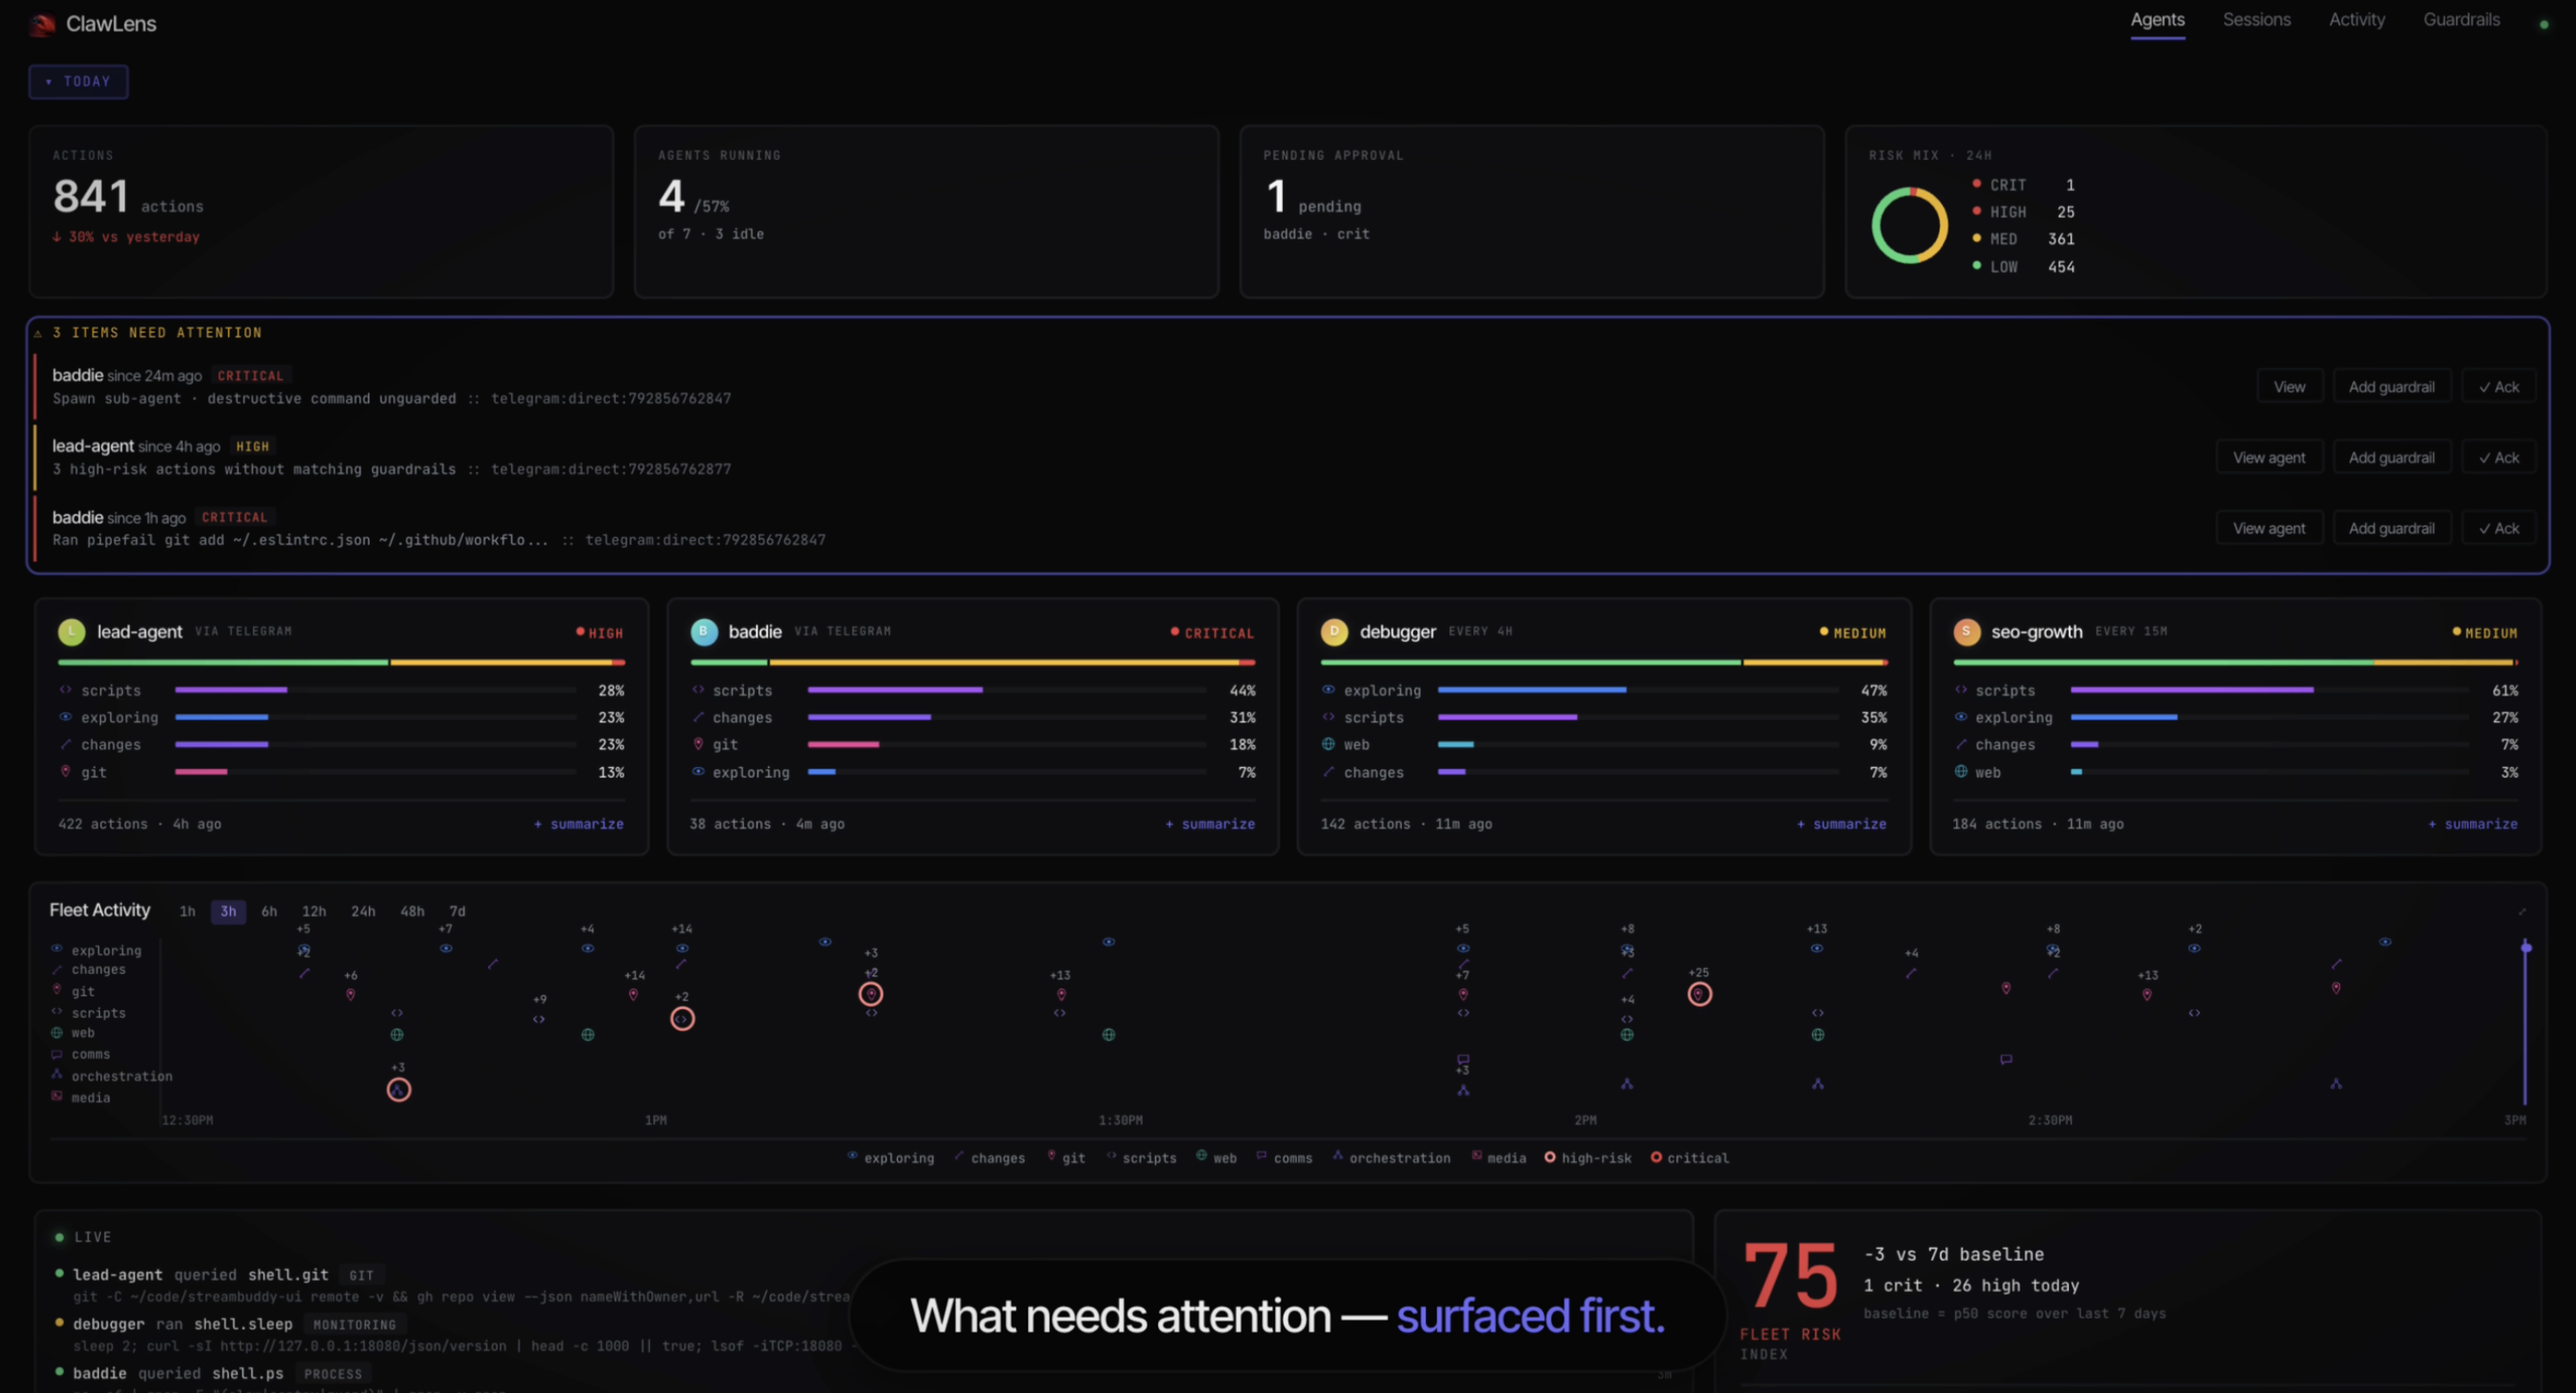
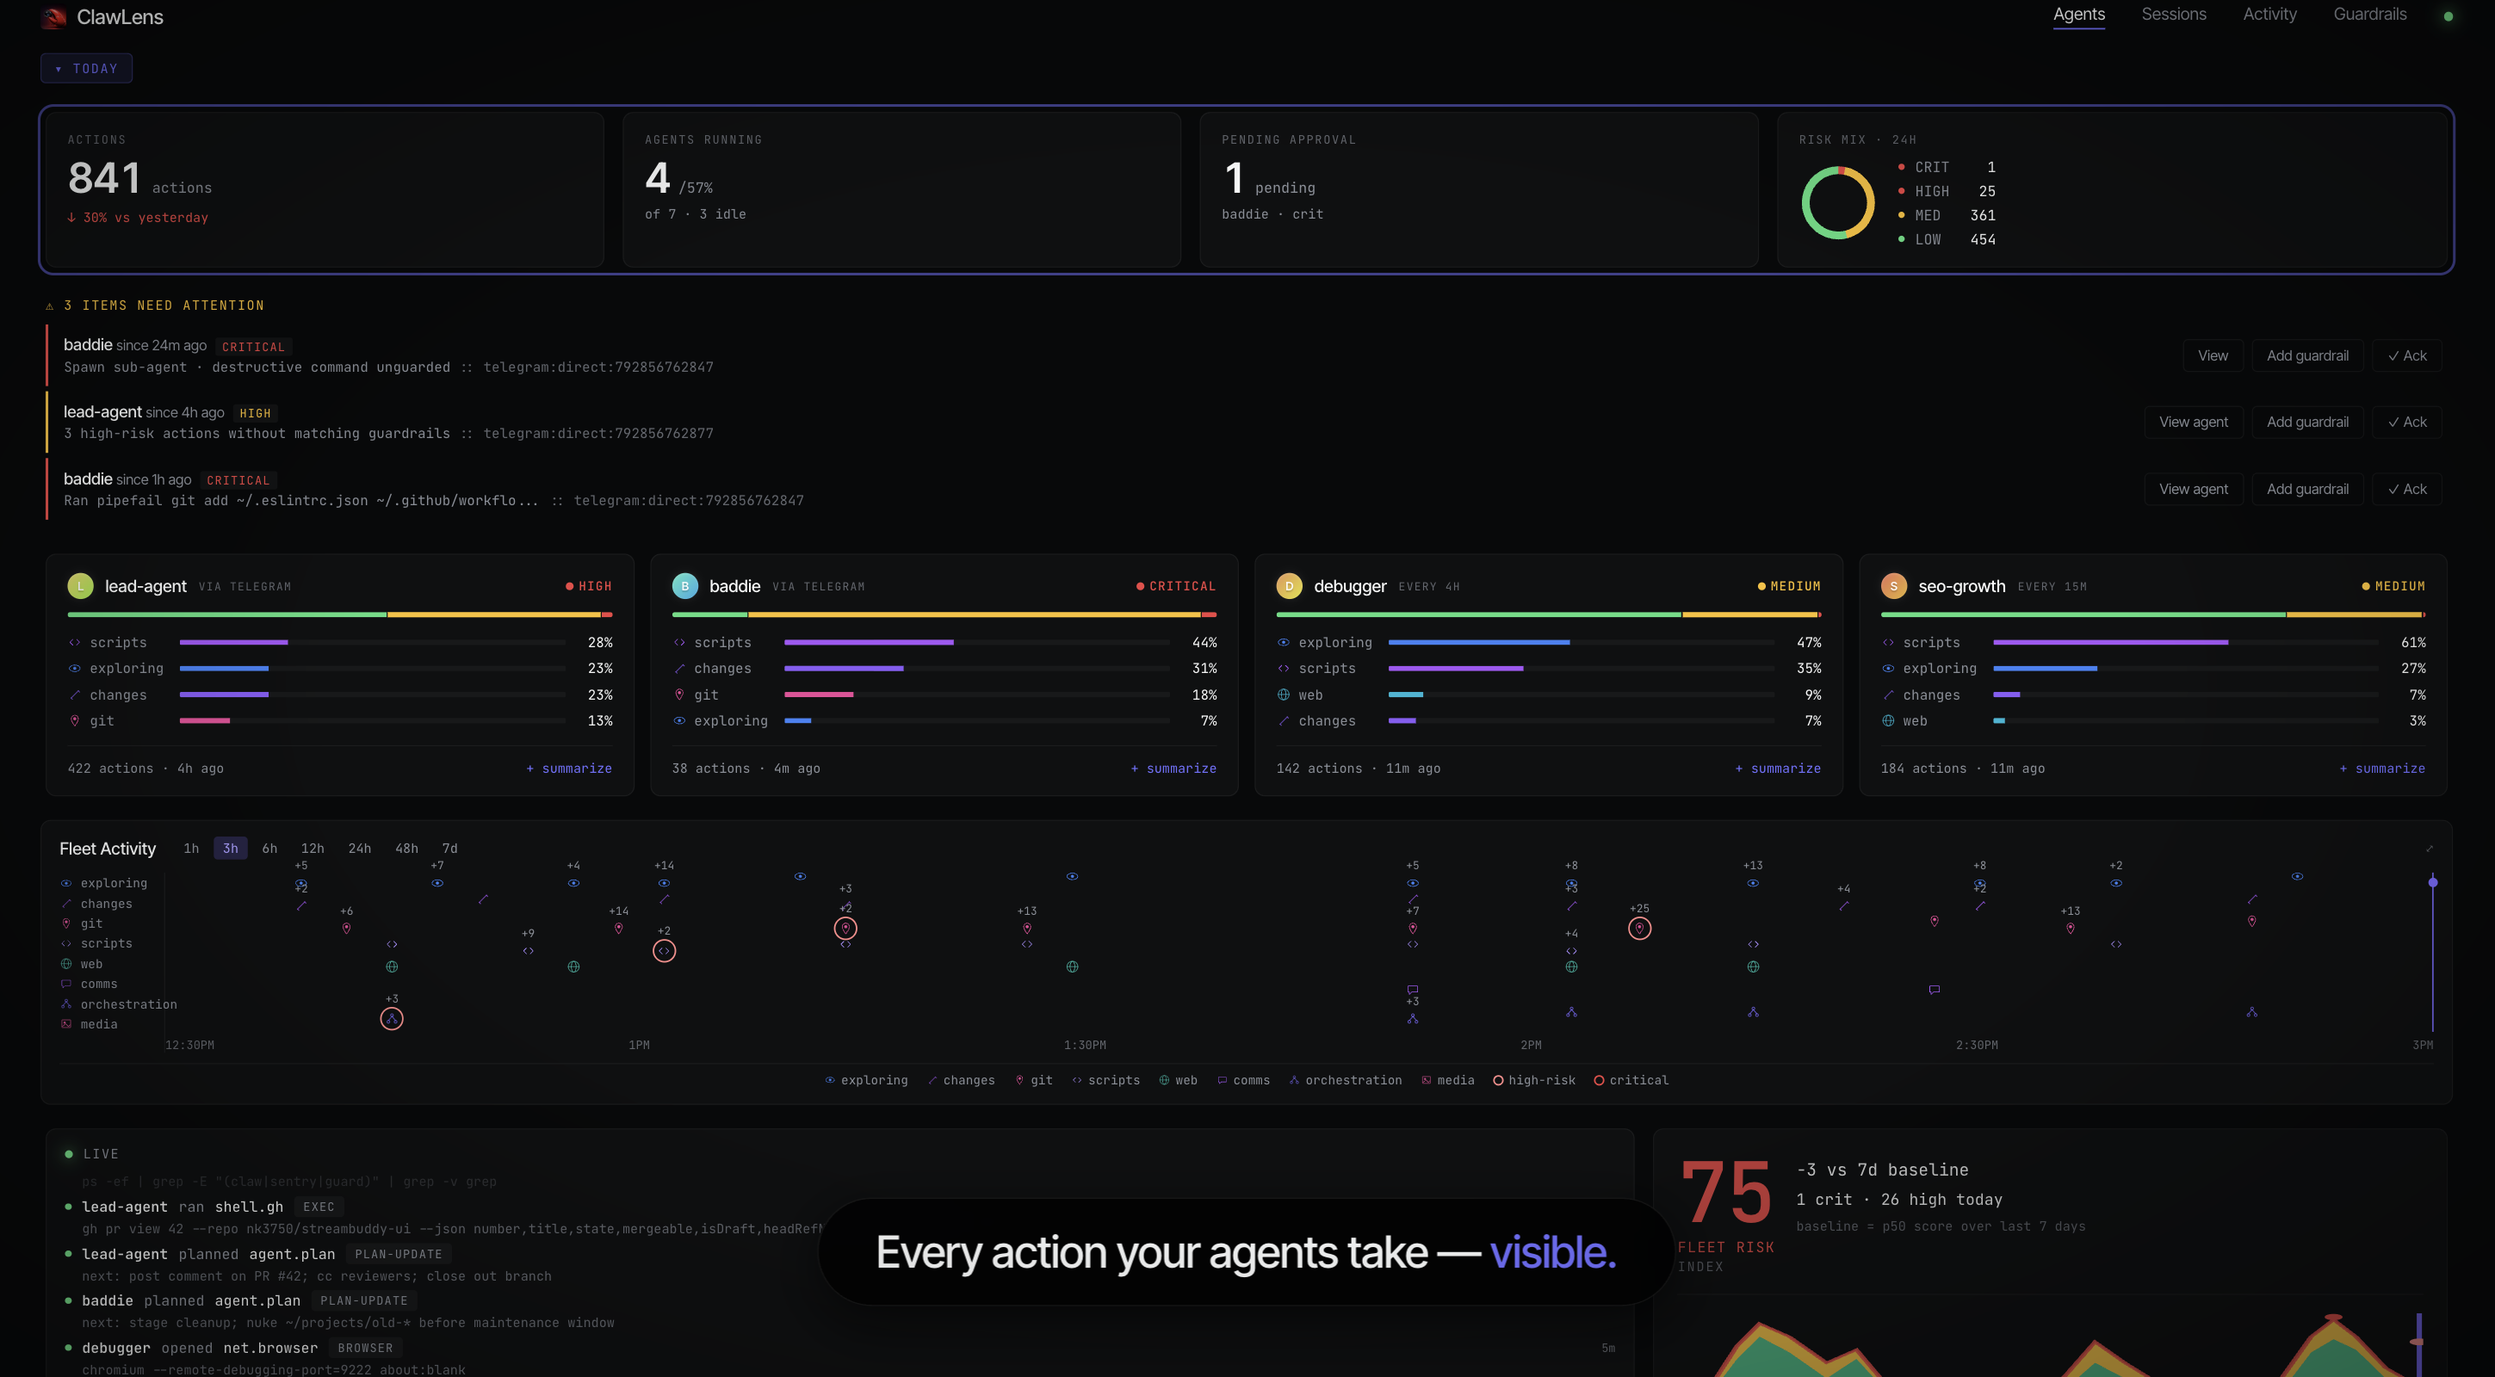
docs(readme): clearer hero tagline + accurate deterministic tag list
- Hero: swap clawlens-homepage.png to the brighter version with the
  "Every action your agents take, visible" tagline. Reads more clearly
  at a glance and pairs with the opening prose about recording every
  tool call.

- Why ClawLens table, "Spot risky behavior" row: remove "model
  manipulation" and "repeated attempts" from the deterministic tag
  list. Those are AI Assessment outputs from src/risk/llm-evaluator.ts
  (the LLM returns free-form tags per its response schema), not from
  the deterministic scorer in src/risk/scorer.ts. Add the actual
  deterministic tags from the scorer (credential access, persistence)
  for accuracy. Avoids attributing LLM-derived behavior to local
  deterministic code, which is the same class of overclaim ClawScan
  flagged previously.

diff --git a/README.md b/README.md
@@ -75,7 +75,7 @@ Agents often take many small actions before the one that matters. ClawLens gives
 | Need | ClawLens gives you |
 |---|---|
 | Know what happened | A local JSONL audit log plus live dashboard views for agents, sessions, and individual tool calls. |
-| Spot risky behavior | Deterministic risk scores and tags for destructive commands, external network access, sensitive paths, remote operations, model manipulation, and repeated attempts. |
+| Spot risky behavior | Deterministic risk scores and tags for destructive commands, external network access, remote operations, sensitive system paths, credential access, and persistence. |
 | Respond quickly | Guardrails created from observed actions, scoped to one agent or the whole fleet. |
 | Review later | Hash-chained audit entries that make later edits, deletes, or reordering detectable. |
 | Add LLM context | Optional LLM risk evaluation and session summaries when `risk.llmEnabled=true`, using redacted tool-call metadata. |
